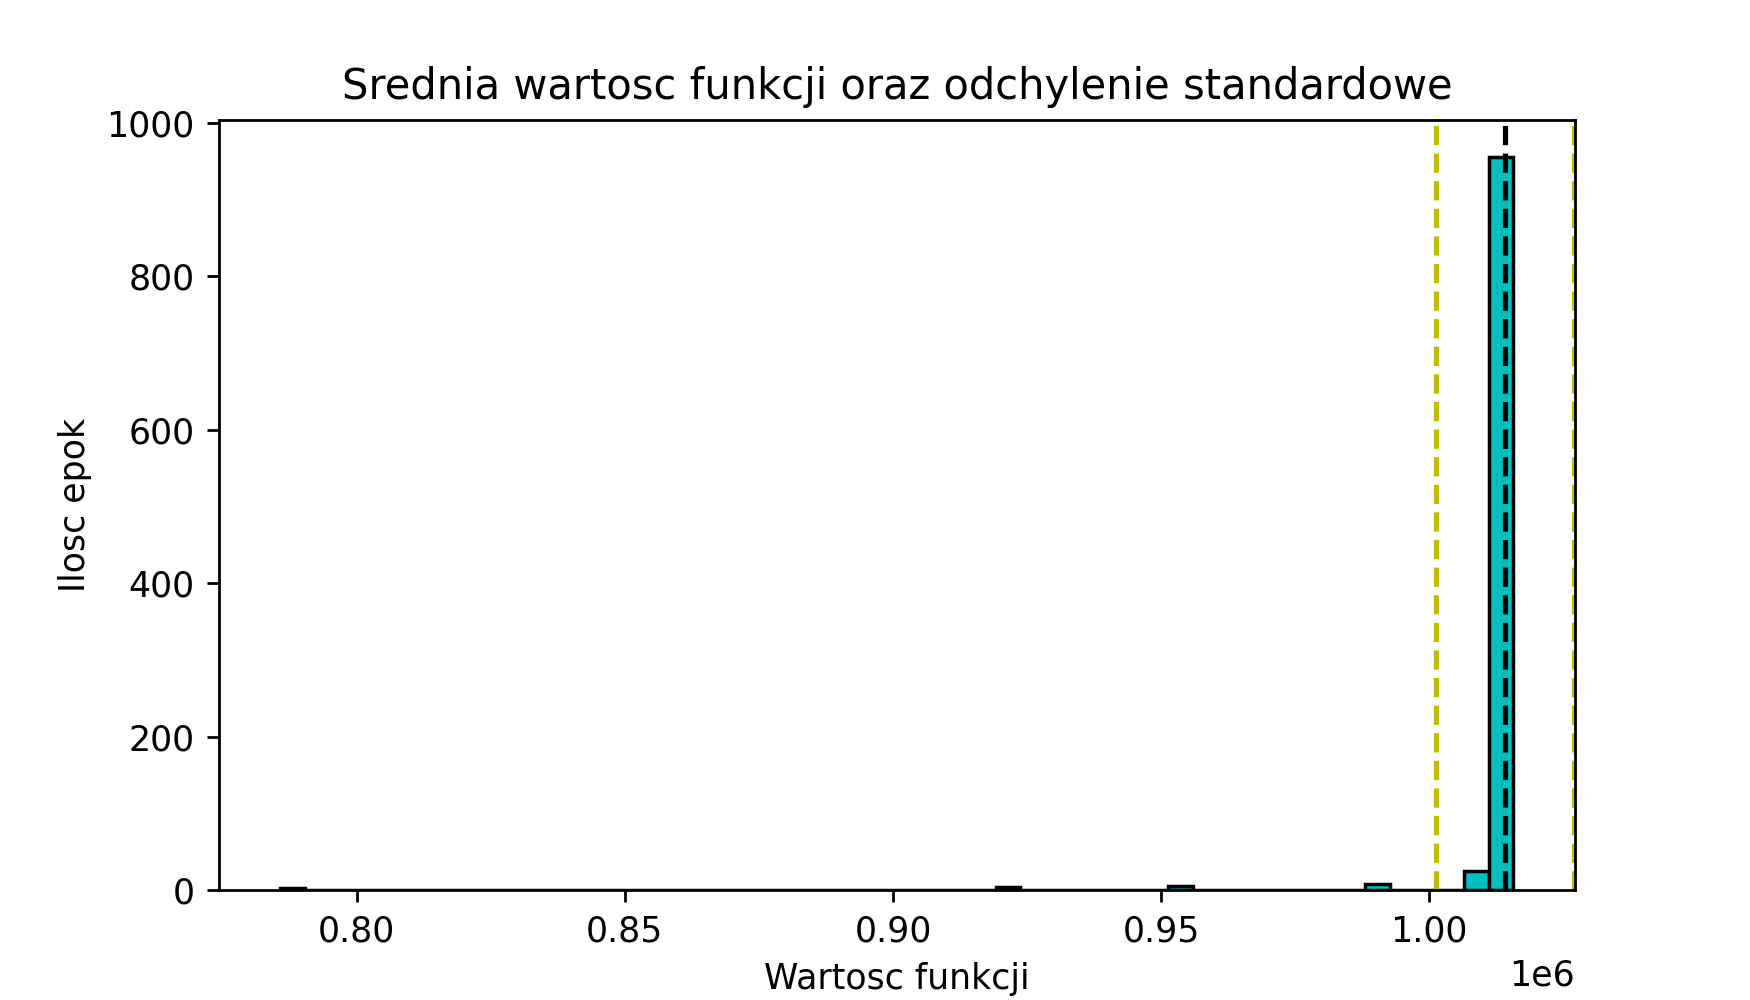
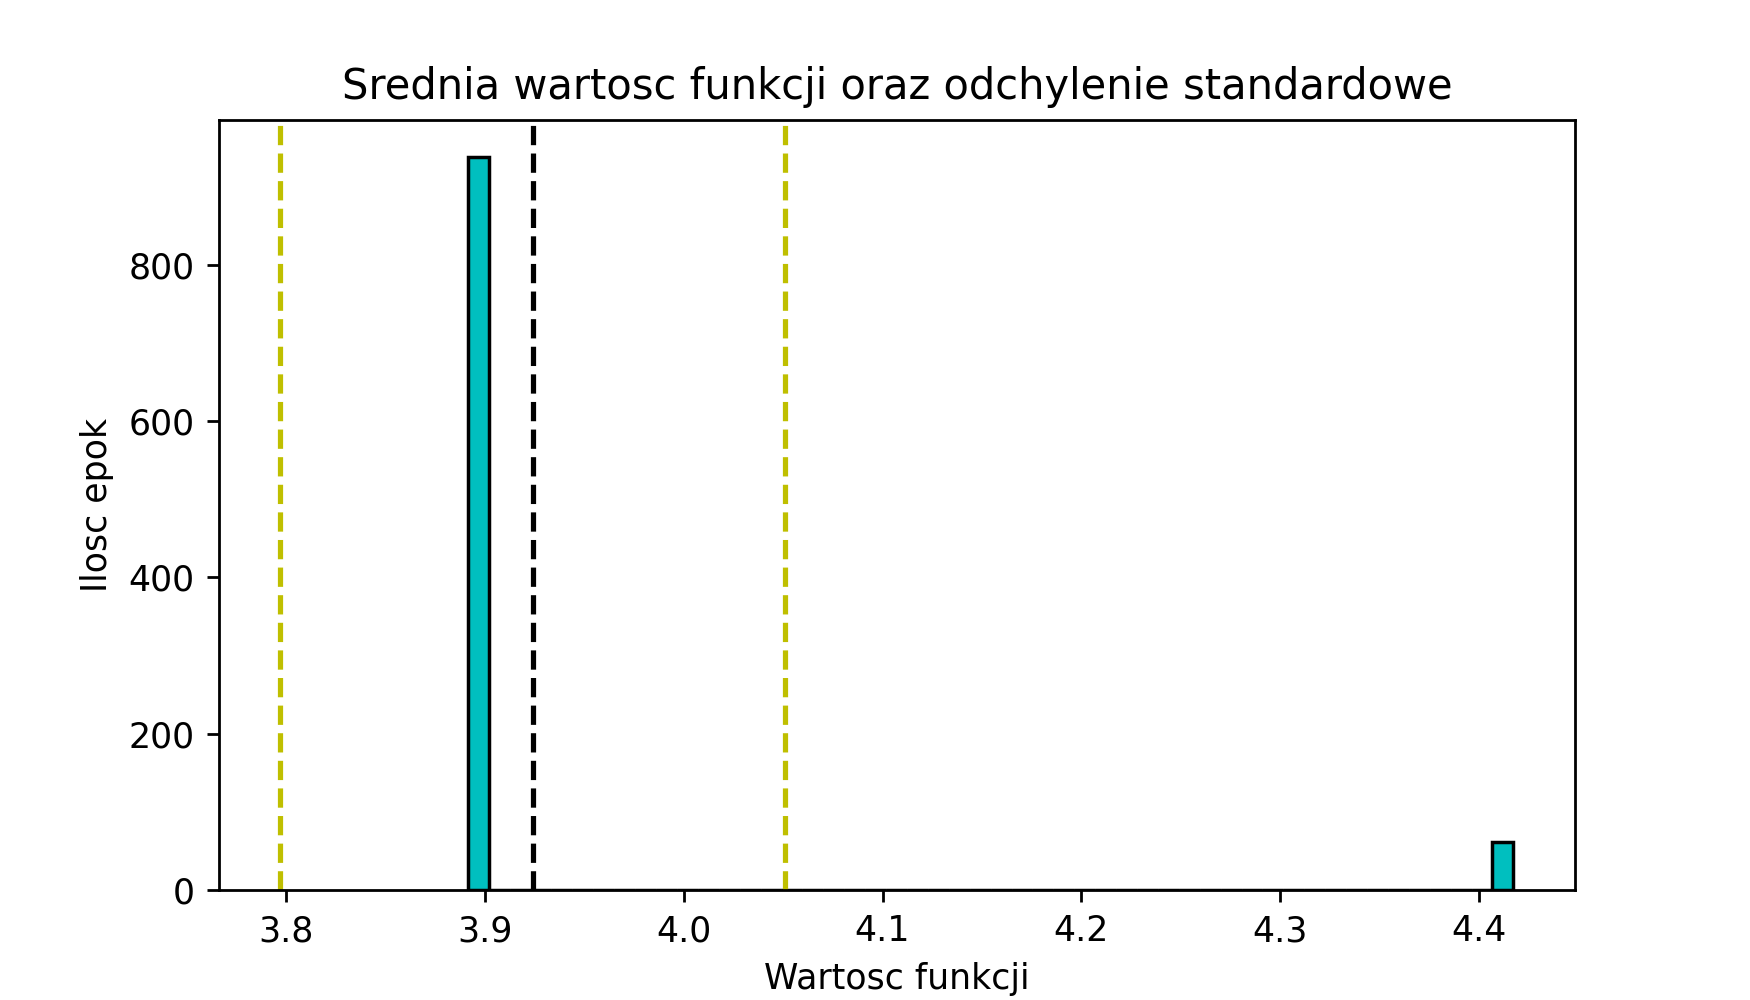
Fix for gene type

diff --git a/client-app/src/components/InitialCalculationDataForm.tsx b/client-app/src/components/InitialCalculationDataForm.tsx
@@ -6,8 +6,6 @@ import SelectElement from "./SelectElement";
 const InitialCalculationDataForm = ({
                                       problemToBeSolved,
                                       setProblemToBeSolved,
-                                      bestMembersSelectionPercentage,
-                                      setBestMembersSelectionPercentage,
                                       onFormSubmit,
                                       beginOfrRange,
                                       setBeginOfRange,
@@ -17,8 +15,6 @@ const InitialCalculationDataForm = ({
                                       setPopulationMembersCount,
                                       epochsCount,
                                       setEpochsCount,
-                                      tournamentSelectionCount,
-                                      setTournamentSelectionCount,
                                       eliteStrategyPercentage,
                                       setEliteStrategyPercentage,
                                       inversionProbability,
@@ -33,10 +29,15 @@ const InitialCalculationDataForm = ({
                                       setCrossMethod,
                                       mutationMethod,
                                       setMutationMethod,
-                                      isLoading
+                                      isLoading,
+                                      setGeneType,
+                                      geneType
                                     }: initialCalculationDataFormType) => {
   return (
     <Form onSubmit={onFormSubmit}>
+      <SelectElement label="Gene type" options={['binary', 'real']}
+                     onChangeCallBack={setGeneType} selectValue={geneType}/>
+
       <SelectElement label="Problem to solve" options={['minimization', 'maximization']}
                      onChangeCallBack={setProblemToBeSolved} selectValue={problemToBeSolved}/>
       <InputElement
@@ -69,18 +70,6 @@ const InitialCalculationDataForm = ({
         inputValue={eliteStrategyPercentage}
         onChangeCallBack={setEliteStrategyPercentage}
       />
-      {/*<InputElement*/}
-      {/*  elementName="bestMembersSelectionPercentage"*/}
-      {/*  labelTxt="Best members percentage"*/}
-      {/*  inputValue={bestMembersSelectionPercentage}*/}
-      {/*  onChangeCallBack={setBestMembersSelectionPercentage}*/}
-      {/*/>*/}
-      {/*<InputElement*/}
-      {/*  elementName="chromosomCount"*/}
-      {/*  labelTxt="Tournament selection amount"*/}
-      {/*  inputValue={tournamentSelectionCount}*/}
-      {/*  onChangeCallBack={setTournamentSelectionCount}*/}
-      {/*/>*/}
       <InputElement
         elementName="crossProbablility"
         labelTxt="Cross probablility"
@@ -99,12 +88,24 @@ const InitialCalculationDataForm = ({
         inputValue={inversionProbability}
         onChangeCallBack={setInversionProbability}
       />
-      <SelectElement label="Selection method" options={['best', 'roulette', 'tournament']} onChangeCallBack={setSelectionMethod}
+      <SelectElement label="Selection method" options={['best', 'roulette', 'tournament']}
+                     onChangeCallBack={setSelectionMethod}
                      selectValue={selectionMethod}/>
-      <SelectElement label="Cross method" options={['one_point', 'two_points', 'three_point', 'homo','arithmeticCrossover','blendCrossover','blendCrossoverBeta','averageCrossover']}
+      <SelectElement label="Cross method"
+                     options={
+                       geneType === 'binary'
+                         ? ['one_point', 'two_points', 'three_point', 'homo']
+                         : ['arithmeticCrossover', 'blendCrossover', 'blendCrossoverBeta', 'averageCrossover']
+                     }
                      onChangeCallBack={setCrossMethod} selectValue={crossMethod}/>
-      <SelectElement label="Mutation method" options={['homogeneous_mutation', 'edge_mutation', 'two_point_mutation']} onChangeCallBack={setMutationMethod}
-                     selectValue={mutationMethod}/>
+      <SelectElement label="Mutation method"
+                     options={
+
+                       geneType === 'binary' ? ['homogeneous_mutation', 'edge_mutation', 'two_point_mutation']
+                         : ['uniform_mutation', 'gauss_mutation']}
+                     onChangeCallBack={setMutationMethod}
+                     selectValue={mutationMethod}
+      />
       <Row>
         <Col
           className="d-flex justify-content-center"

diff --git a/client-app/src/App.tsx b/client-app/src/App.tsx
@@ -1,11 +1,12 @@
-import {FormEvent, useState} from 'react';
+import {FormEvent, useEffect, useState} from 'react';
 import {Col, Container, Row} from 'reactstrap';
 import InitialCalculationDataForm from './components/InitialCalculationDataForm';
 import ResultModal from './components/ResultModal';
 import axios from "axios";
 
 const App = () => {
-  const [problemToBeSolved, setProblemToBeSolved] = useState('maximization');
+  const [geneType, setGeneType] = useState('binary');
+  const [problemToBeSolved, setProblemToBeSolved] = useState('minimization');
   const [beginOfrRange, setBeginOfRange] = useState('-2');
   const [endOfRange, setEndOfRange] = useState('2');
   const [populationMembersCount, setPopulationMembersCount] = useState('200');
@@ -13,7 +14,6 @@ const App = () => {
   const [tournamentSelectionCount, setTournamentSelectionCount] = useState('2');
   const [eliteStrategyPercentage, setEliteStrategyPercentage] = useState('20');
   const [bestMembersSelectionPercentage, setBestMembersSelectionPercentage] = useState('20');
-  // const [bitsCount, setBitsCount] = useState('');
   const [crossProbablility, setCrossProbablility] = useState('20');
   const [mutationProbability, setMutationProbability] = useState('80');
   const [inversionProbability, setInversionProbability] = useState('80');
@@ -36,12 +36,23 @@ const App = () => {
     setIsModalOpened(false);
   };
 
+  useEffect(() => {
+    if (geneType === 'binary') {
+      setCrossMethod('one_point')
+      setMutationMethod('homogeneous_mutation')
+    } else {
+      setCrossMethod('arithmeticCrossover')
+      setMutationMethod('uniform_mutation')
+    }
+  }, [geneType])
+
   const onFormSubmit = (e: FormEvent) => {
     e.preventDefault();
     setBackendError(null)
     setLoading(true);
 
     axios.post('http://127.0.0.1:8000/evolutionary-computing/compute/', {
+      gene_type: geneType,
       epoch_amount: epochsCount,
       best_members_selection_percentage: bestMembersSelectionPercentage,
       population_members_count: populationMembersCount,
@@ -108,7 +119,9 @@ const App = () => {
             // setBitsCount={setBitsCount}
             setCrossProbablility={setCrossProbablility}
             isLoading={isLoading}
-            setTournamentSelectionCount={setTournamentSelectionCount}/>
+            setTournamentSelectionCount={setTournamentSelectionCount}
+            setGeneType={setGeneType}
+            geneType={geneType}/>
           <ResultModal hideModal={hideModal}
                        isLoading={isLoading} isModalOpened={isModalOpened} response={response} backendError={backendError}/>
         </Col>

diff --git a/client-app/src/types/common.ts b/client-app/src/types/common.ts
@@ -33,4 +33,6 @@ export type initialCalculationDataFormType = {
   mutationMethod: string;
   setMutationMethod: Dispatch<SetStateAction<string>>;
   isLoading: boolean;
+  setGeneType: Dispatch<SetStateAction<string>>;
+  geneType: string;
 };

diff --git a/rest-api/evolutionary_computing/calculation/mutation/__init__.py b/rest-api/evolutionary_computing/calculation/mutation/__init__.py
@@ -4,12 +4,12 @@ from abc import ABC, abstractmethod
 
 class MutationStrategy(ABC):
     @abstractmethod
-    def mutate(self, member_after_crossing, probability_of_mutation):
+    def mutate(self, member_after_crossing, probability_of_mutation, search_result_range_from, search_result_range_to):
         pass
 
 
 class HomogeneousMutation(MutationStrategy):
-    def mutate(self, member_after_crossing, probability_of_mutation):
+    def mutate(self, member_after_crossing, probability_of_mutation, search_result_range_from, search_result_range_to):
         member_after_mutation = []
         for i in member_after_crossing:
             probability_of_mutation_tmp = random.uniform(0, 1)
@@ -38,7 +38,7 @@ class HomogeneousMutation(MutationStrategy):
 
 
 class EdgeMutation(MutationStrategy):
-    def mutate(self, member_after_crossing, probability_of_mutation):
+    def mutate(self, member_after_crossing, probability_of_mutation, search_result_range_from, search_result_range_to):
         member_after_mutation = []
         for i in member_after_crossing:
             probability_of_mutation_tmp = random.uniform(0, 1)
@@ -62,7 +62,7 @@ class EdgeMutation(MutationStrategy):
 
 class TwoPointMutation(MutationStrategy):
 
-    def mutate(self, member_after_crossing, probability_of_mutation):
+    def mutate(self, member_after_crossing, probability_of_mutation, search_result_range_from, search_result_range_to):
         member_after_mutation = []
         for i in member_after_crossing:
             probability_of_mutation_tmp = random.uniform(0, 1)
@@ -192,8 +192,30 @@ class TwoPointMutation(MutationStrategy):
                                                   i[1][0:first_draw_2 - 1] + [False] + i[1][
                                                                                        first_draw_2:second_draw_2 - 1] + [
                                                       True] + i[1][second_draw_2:]])
-
-
             else:
                 member_after_mutation.append(i)
         return member_after_mutation
+
+
+class UniformMutation(MutationStrategy):
+    def mutate(self, member_after_crossing, probability_of_mutation, search_result_range_from, search_result_range_to):
+        for member_item in member_after_crossing:
+            member_item[random.randint(0, 1)] = random.uniform(
+                search_result_range_from,
+                search_result_range_to
+            )
+
+        return member_after_crossing
+
+
+class GaussMutation(MutationStrategy):
+    def mutate(self, member_after_crossing, probability_of_mutation, search_result_range_from, search_result_range_to):
+        mean = 0
+        sigma = 0.4
+        
+        for member_item in member_after_crossing:
+            if random.uniform(0, 1) < probability_of_mutation:
+                member_item[0] = random.gauss(mean, sigma)
+                member_item[1] = random.gauss(mean, sigma)
+
+        return member_after_crossing

diff --git a/rest-api/evolutionary_computing/calculation/__init__.py b/rest-api/evolutionary_computing/calculation/__init__.py
@@ -1,6 +1,6 @@
 from .crorrsing import OnePointCrossing, OneTwoPointsCrossing,OneThreePointsCrossing,HomoCrossing, ArithmeticCrossover,BlendCrossover,BlendCrossoverBeta,AverageCrossover
 from .functions.goldstein_price import goldstein_price
-from .mutation import HomogeneousMutation, EdgeMutation, TwoPointMutation
+from .mutation import HomogeneousMutation, EdgeMutation, TwoPointMutation, UniformMutation, GaussMutation
 from .population import Population
 from .selection import RouletteSelection, TournamentSelection
 
@@ -23,14 +23,16 @@ class Calculation:
         "homo": HomoCrossing(),
         "arithmeticCrossover": ArithmeticCrossover(),
         "blendCrossover": BlendCrossover(),
-        "blendCrossoverBeta":BlendCrossoverBeta(),
-        "averageCrossover":AverageCrossover()
+        "blendCrossoverBeta": BlendCrossoverBeta(),
+        "averageCrossover": AverageCrossover()
     }
 
     mutation_dictionary = {
         "homogeneous_mutation": HomogeneousMutation(),
         "edge_mutation": EdgeMutation(),
         "two_point_mutation": TwoPointMutation(),
+        "uniform_mutation": UniformMutation(),
+        "gauss_mutation": GaussMutation(),
     }
 
     fit_function_dictionary = {
@@ -39,6 +41,7 @@ class Calculation:
 
     def __init__(
         self,
+        gene_type,
         epoch_amount,
         best_members_selection_percentage,
         population_members_count,
@@ -57,6 +60,7 @@ class Calculation:
     ):
         """
         Attributes:
+            gene_type: binary or real
             epoch_amount: amount of epochs in calculation
             best_members_selection_percentage: percentage the best members picked in selection
             population_members_count: amount of population members
@@ -66,9 +70,10 @@ class Calculation:
             selection_method: type of selection
             mutation_method: fitness function
         """
+        self.gene_type = gene_type
         self.selection_kind = self.selection_dictionary[selection_method]
         self.best_percentage_selection_members = best_members_selection_percentage
-        self.population = Population(population_members_count, self.selection_kind)
+        self.population = Population(population_members_count, self.selection_kind, gene_type)
         self.epoch_amount = epoch_amount
         self.search_result_range_from = search_result_range_from
         self.search_result_range_to = search_result_range_to
@@ -85,6 +90,7 @@ class Calculation:
     def trigger(self):
         self.population.generate(self.search_result_range_from, self.search_result_range_to)
         return self.population.evolve(
+            self.gene_type,
             self.fitness,
             self.crossing,
             self.epoch_amount,

diff --git a/rest-api/evolutionary_computing/calculation/population/__init__.py b/rest-api/evolutionary_computing/calculation/population/__init__.py
@@ -16,10 +16,11 @@ class Population:
     _chromosomes: List[Chromosome] = []
     _size: int = 0
 
-    def __init__(self, size, selection: SelectionStrategy):
+    def __init__(self, size, selection: SelectionStrategy, gene_type):
         self.__chromosomes_length = 0
         self._selection = selection
         self._size = size
+        self.gene_type = gene_type
 
     def generate(self, left_limit, right_limit):
         self.__chromosomes_length = Chromosome.calc_length(left_limit, right_limit)
@@ -28,7 +29,8 @@ class Population:
             right_limit,
             self.__chromosomes_length,
             goldstein_price,
-            []
+            [],
+            self.gene_type
         ) for _ in range(self._size)]
 
     def __elite_strategy(self, elite_percentage, problem_to_solve):
@@ -74,6 +76,7 @@ class Population:
 
     def evolve(
         self,
+        gene_type,
         fitness,
         crossing,
         epoch_amount,
@@ -115,11 +118,15 @@ class Population:
             member_after_crossing = crossing.cross(selected, probability_of_crossing, problem_to_solve)
 
             # 4. mutation
-            member_after_mutation = mutation.mutate(member_after_crossing, probability_of_mutation)
+            member_after_mutation = mutation.mutate(member_after_crossing,
+                                                    probability_of_mutation,
+                                                    search_result_range_from,
+                                                    search_result_range_to)
 
             # 5. inversion
-            population_inversion = Inversion(probability_of_inversion)
-            inverted_population = population_inversion.inversion_in_population(member_after_mutation)
+            if gene_type == 'binary':
+                population_inversion = Inversion(probability_of_inversion)
+                member_after_mutation = population_inversion.inversion_in_population(member_after_mutation)
 
             # 6. assign to _chromosomes
             self._chromosomes = []
@@ -129,8 +136,9 @@ class Population:
                     search_result_range_to,
                     self.__chromosomes_length,
                     fitness,
-                    initial_binary_gens
-                ) for initial_binary_gens in inverted_population] \
+                    initial_gens,
+                    gene_type
+                ) for initial_gens in member_after_mutation] \
                 + saved_elite_chromosomes
 
             # 7. result aggregation

diff --git a/rest-api/evolutionary_computing/calculation/chromosome/__init__.py b/rest-api/evolutionary_computing/calculation/chromosome/__init__.py
@@ -9,19 +9,26 @@ class Chromosome:
     dec_gens = []  # decimal gens for X1, X2 [float, float]
     value = 0
 
-    def __init__(self, left_limit, right_limit, length, fitness, initial_binary_gens):
+    def __init__(self, left_limit, right_limit, length, fitness, initial_gens, gene_type):
         """
         Attributes:
             left_limit: lower limit of the final value
             right_limit: upper limit of the final value
             length: length of the chromosome
             fitness: fitness function
-            initial_binary_gens: [bool[], bool[]]
+            initial_gens: [bool[], bool[]]
         """
-        self._binary_gens = self.__generate(length, initial_binary_gens)
+        if gene_type == 'binary' or len(initial_gens) == 0:
+            self._binary_gens = self.__generate(length, initial_gens)
+
         self.left_limit = left_limit
         self.right_limit = right_limit
-        self.dec_gens = self.__bin_to_decimal()
+
+        if gene_type == 'binary' or len(initial_gens) == 0:
+            self.dec_gens = self.__bin_to_decimal()
+        else:
+            self.dec_gens = initial_gens
+
         self.value = fitness(self.dec_gens[0], self.dec_gens[1])
 
     @property

diff --git a/rest-api/evolutionary_computing/calculation/inversion/__init__.py b/rest-api/evolutionary_computing/calculation/inversion/__init__.py
@@ -21,8 +21,9 @@ class Inversion:
         return array[0:start] + fragment + array[end:]
 
     def inversion_in_population(self, population_after_mutation):
-        return [
-            [self.inversion(chromosome[index_element], self.probability, index_element, chromosome_index)
-                for index_element in range(2)]
-            for chromosome_index, chromosome in enumerate(population_after_mutation)
-        ]
+        # return [
+        #     [self.inversion(chromosome[index_element], self.probability, index_element, chromosome_index)
+        #         for index_element in range(2)]
+        #     for chromosome_index, chromosome in enumerate(population_after_mutation)
+        # ]
+        return population_after_mutation

diff --git a/rest-api/evolutionary_computing/views.py b/rest-api/evolutionary_computing/views.py
@@ -54,6 +54,7 @@ class CalculationList(APIView):
     @staticmethod
     def _calculate_evolutionary_computing(request):
         evolutionary_computing_calculation = Calculation(
+            request.data['gene_type'],
             int(request.data['epoch_amount']),
             int(request.data['best_members_selection_percentage']),
             int(request.data['population_members_count']),
